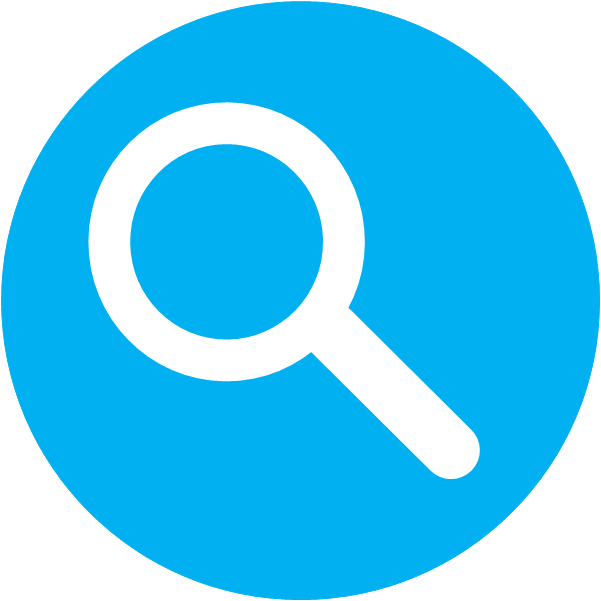
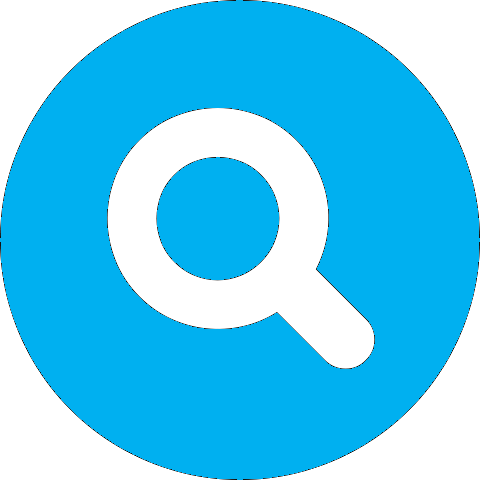
editor is working great! replace the search button

diff --git a/MyGemach/components/home.js b/MyGemach/components/home.js
@@ -53,6 +53,19 @@ export default class Home extends React.Component {
     });
   }
 
+  editPickImageHandler = () => {
+    ImagePicker.showImagePicker(options, res => {
+      if (res.didCancel) {
+        console.log("User cancelled!");
+      } else if (res.error) {
+        console.log("Error", res.error);
+      } else {
+        this.setState(prevState => ({
+          editor:{...prevState.editor,pickedImage: { uri: res.uri }}}));
+      }
+    });
+  }
+
   createGemach(){
     this.setState(prevState => ({
       displayGemach:true,
@@ -74,7 +87,6 @@ export default class Home extends React.Component {
 
 findItem(itemNumber){
   let newList = this.state.dataList
-  let index;
   for(a=0;a<newList.length;a++){
     if(newList[a].key == itemNumber){
       return newList.indexOf(newList[a])
@@ -132,26 +144,38 @@ remove(){
 
 
 edit(){
+  let dataList = this.state.dataList
   if(this.state.itemSelected.length>1){
     Alert.alert(
       'שגיאה',
       'יש לבחור פריט אחד בלבד',
       [
-        {text: 'אישור', onPress: () => false, style: 'cancel'}
+        {text: 'אישור', onPress: () => {
+          this.setState({itemSelected:[]})
+          for(a=0;a<dataList.length;a++){
+            if(dataList[a].selected == true){
+              dataList[a].selected=false
+              dataList[a].cardBackgroundColor='white'
+            }
+          }console.log('dataList: ',dataList)
+          this.setState({dataList:dataList})
+        }, style: 'cancel'}
       ],
     )
   }else if(this.state.itemSelected.length==1){
-    let dataList = this.state.dataList
     for(a=0;a<dataList.length;a++){
       if(dataList[a].selected == true){
         this.setState({
+          editor:{
             gemachName:dataList[a].gemachName,
             gemachDescription:dataList[a].gemachDescription,
             pickedImage:dataList[a].pickedImage,
-            key:dataList[a].key+1,
+            key:dataList[a].key,
             date:dataList[a].date,
             cardBackgroundColor:'white',
+            selected:false,
             index:dataList.indexOf(dataList[a])
+          }
         })
       }
     }this.refs.editor.open()
@@ -160,15 +184,10 @@ edit(){
 
 gemachEditor(){
   let dataList = this.state.dataList
-  dataList[this.state.index].gemachName=this.state.gemachName,
-  dataList[this.state.index].gemachDescription=this.state.gemachDescription,
-  dataList[this.state.index].pickedImage=this.state.pickedImage,
-  dataList[this.state.index].date=this.state.date,
-  dataList[this.state.index].key=this.state.key,
-  dataList[this.state.index].cardBackgroundColor=this.state.cardBackgroundColor,
-  dataList[this.state.index].selected = false
+  dataList[this.state.editor.index]=this.state.editor,
   this.setState({
     dataList:dataList,
+    itemSelected:[],
   });this.refs.editor.close()
 }
 
@@ -254,19 +273,19 @@ searchByText(text){
         ref={"editor"}
         >
         <View style={{flexDirection: 'row',justifyContent:'center',alignItems:'center'}}>
-            <TouchableOpacity style={styles.imageBox} onPress={this.pickImageHandler}>
-              <Image source={this.state.pickedImage} style={styles.previewImage}/>
+            <TouchableOpacity style={styles.imageBox} onPress={this.editPickImageHandler}>
+              <Image source={this.state.editor.pickedImage} style={styles.previewImage}/>
             </TouchableOpacity>
           <View style={{flex:1,flexDirection: 'column'}}>
             <TextInput
-              value={this.state.gemachName}
+              value={this.state.editor.gemachName}
               style={styles.textInput}
-              onChangeText={(text) => this.setState({gemachName: text})}
+              onChangeText={(text) => this.setState(prevState => ({editor:{...prevState.editor, gemachName: text}}))}
             />
             <TextInput
-              value={this.state.gemachDescription}
+              value={this.state.editor.gemachDescription}
               style={styles.textInput}
-              onChangeText={(text) => this.setState({gemachDescription: text})}
+              onChangeText={(text) => this.setState(prevState => ({editor:{...prevState.editor,gemachDescription: text}}))}
             />
           </View>
         </View>
@@ -330,7 +349,7 @@ searchByText(text){
             </TouchableOpacity>
           </View>
           <View style={{flex:1, flexDirection: 'row', alignItems:'center', justifyContent:'space-around'}}>
-            {!this.state.searchOpen && <Text style={styles.fontStyle}>הצדקה שלי</Text>}
+            {!this.state.searchOpen && <Text style={styles.fontStyle}>הגמ''ח שלי</Text>}
           </View>
         </View>
         <ScrollView style={{height:dim.height-barHeight}}>
@@ -369,7 +388,7 @@ const styles = StyleSheet.create({
     color: 'white',
   },
   header:{
-    backgroundColor: 'rgb(0,176,240)',
+    backgroundColor: 'rgb(0,176,240)',//#00B0F0
     borderColor: "#008CBA",
     flexDirection:'row',
     justifyContent: 'space-between',
